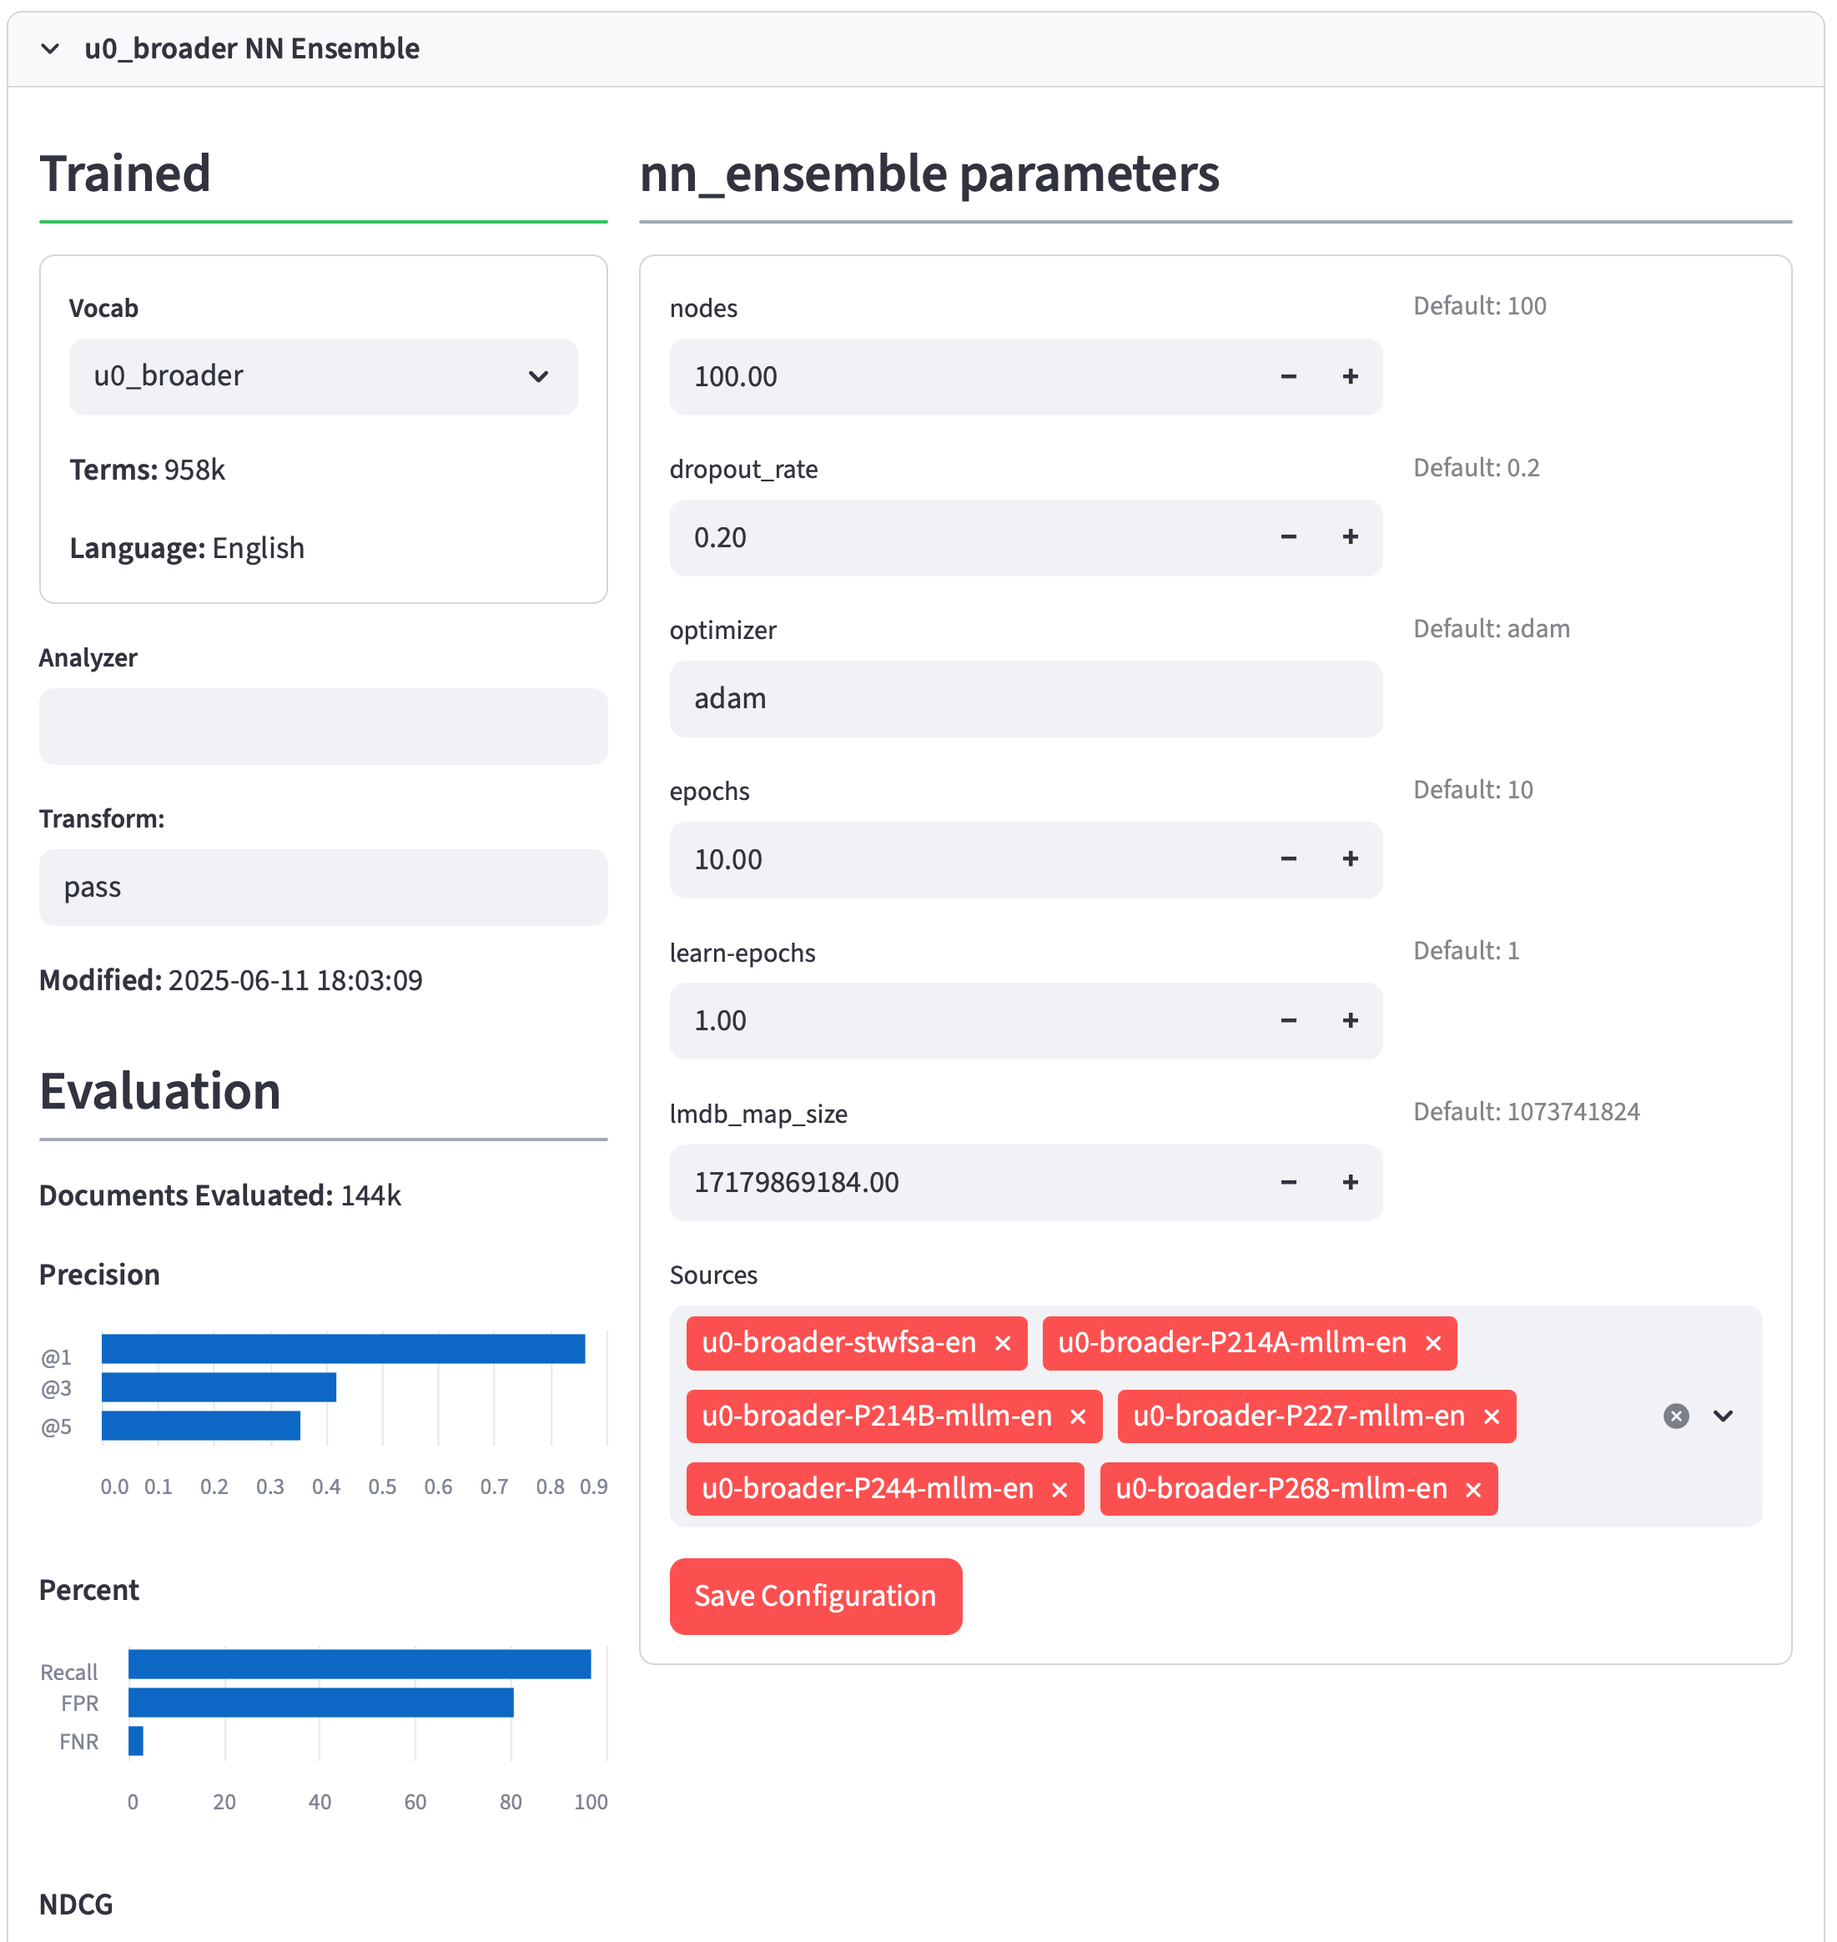
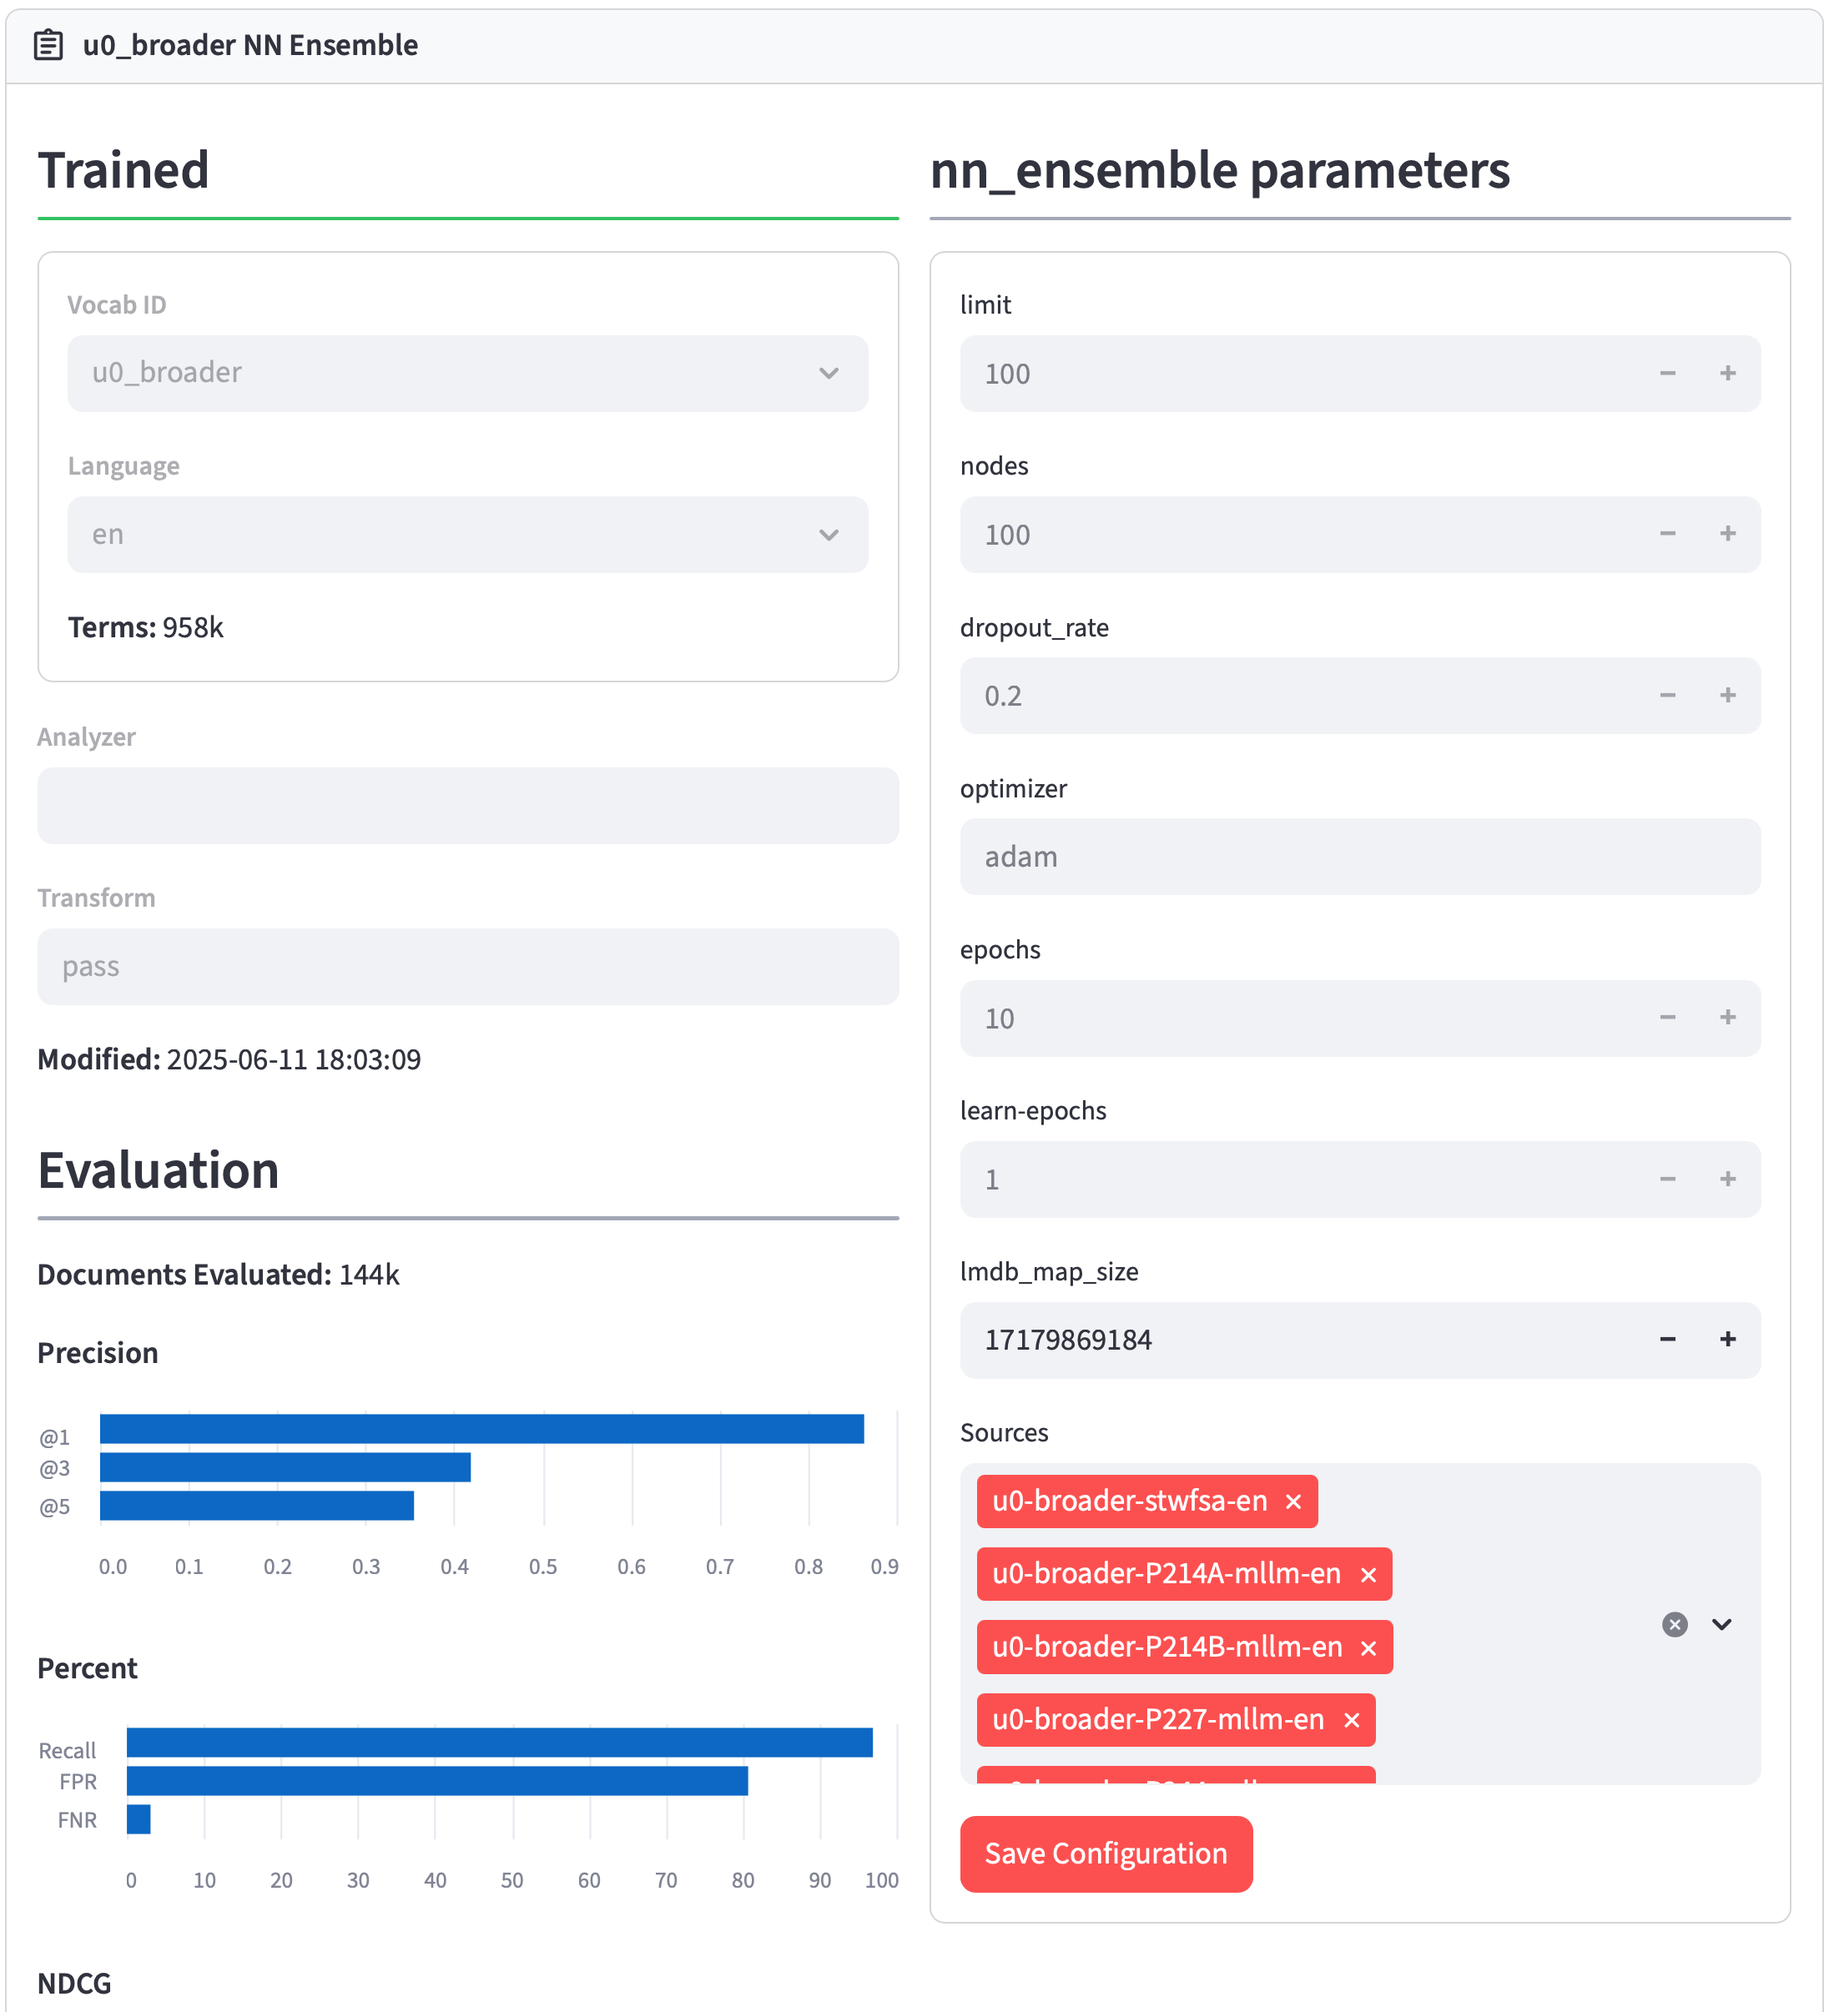
Update README

diff --git a/cannif/README.md b/cannif/README.md
@@ -4,7 +4,7 @@
 Cannif is a web GUI for the [Annif toolkit](https://annif.org). It provides:
 
 - a sortable, searchable, export-able list of projects and details
-- an editor for project backend parameters
+- an editor for projects and backend parameters
 - simple charts of evaluation metrics
 
 It is a pretty small script built using [Streamlit](https://streamlit.io).
@@ -48,23 +48,27 @@ You should see:
 
     $ pip install watchdog
 
-By default cannif connects to the REST API of an Annif server running at `http://localhost:5000/v1/`.  You can edit `ANNIF_API` to point at any Annif server, eg. `https://api.annif.org/v1`:
+By default cannif connects to the REST API of an Annif server running at `http://localhost:5000/v1/`.  You can edit `ANNIF_API` to point at any Annif server, eg. `https://api.annif.org/v1`.  Depending on how and where Annif is installed on your system, the local version may not match the version at the REST API.  This is usually OK, but ideally they should be as similar as possible.
+
+Cannif looks for project information in the default location, `projects.d`.  If cannif is run from the `Annif` folder, it will use the projects defined there.  I like to run it from its own folder, with a symlink to `Annif/projects.d`.
+
+## usage
 
 When connected, it presents an interactive table of projects and their details.  The table can be downloaded as a CSV file.
 
 ![a screenshot](https://github.com/mjsuhonos/Annif-corpora/blob/master/cannif/cannif.png?raw=true)
 
-Depending on how and where Annif is installed on your system, the local version may not match the version at the REST API.  This is usually OK, but ideally they should be as similar as possible.
-
-Cannif looks for project information in the default location, `projects.d`.  If cannif is run from the `Annif` folder, it will use the projects defined there.  I like to run it from its own folder, with a symlink to `Annif/projects.d`.
-
 When you select a project in the table, details about that project and its backend appear below the table.
 
 ![a screenshot](https://github.com/mjsuhonos/Annif-corpora/blob/master/cannif/project.png?raw=true)
 
-Cannif looks for evaluation information in the `data/eval` directory.  JSON files in the Annif `--metrics-file` format will be used if they match the name of a project_id.  When metrics are available, they are displayed in both the project details and in a series of comparative charts.
+When metrics are available, they are displayed in both the project details and in a series of comparative charts.  Cannif looks for evaluation information in the `data/eval` directory.  JSON files in the Annif `--metrics-file` format will be used if they match the name of a project_id.
 
 ![a screenshot](https://github.com/mjsuhonos/Annif-corpora/blob/master/cannif/metrics.png?raw=true)
+
+New projects can be created, including loading new vocabularies.
+
+![a screenshot](https://github.com/mjsuhonos/Annif-corpora/blob/master/cannif/new.png?raw=true)
 
 ## that's all folks
 
